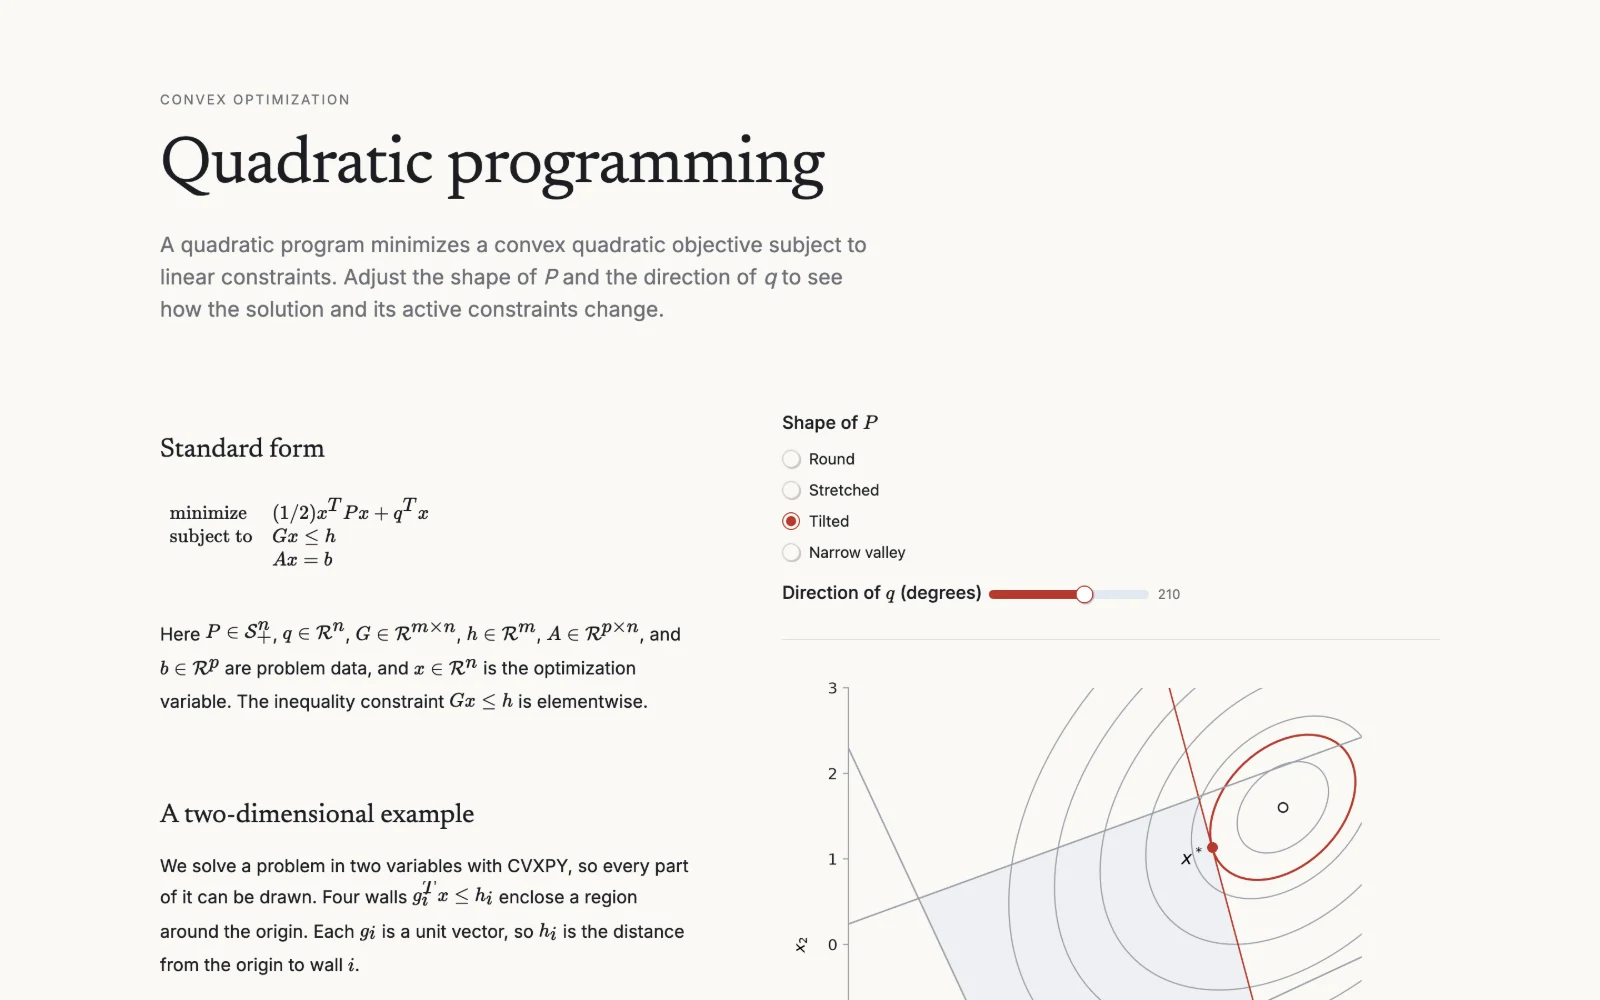
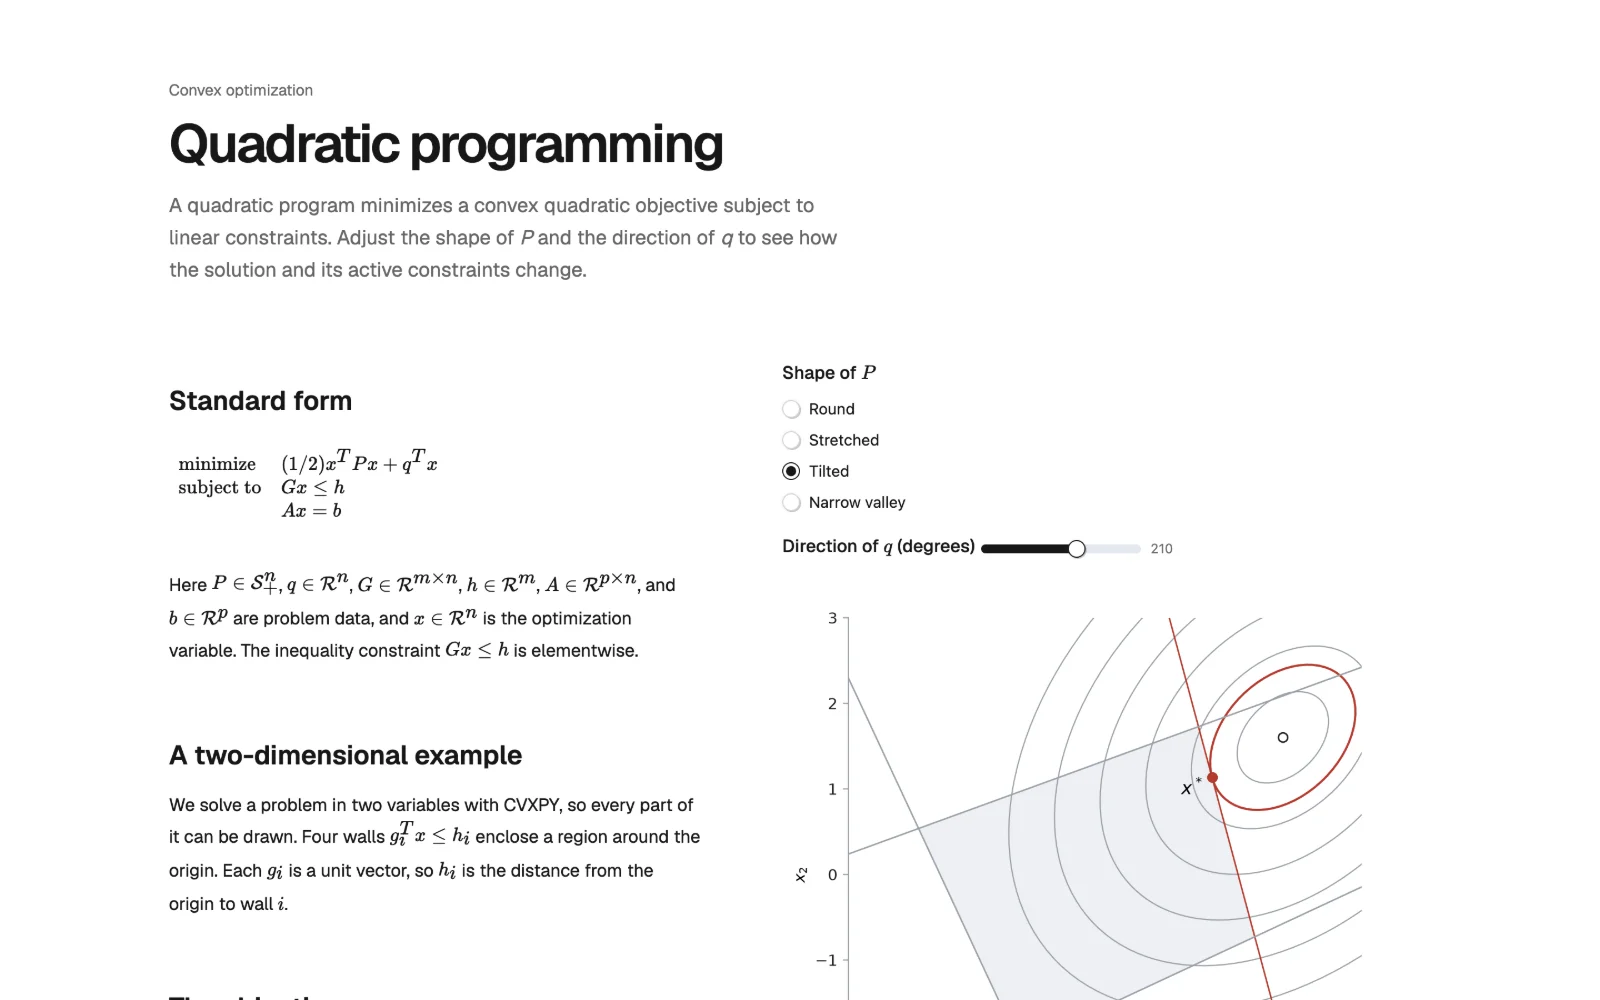
feat: give the quadratic explainer a monochrome identity of its own
The Explainer shared the Lecture and Lab's warm paper, serif headings, and red
accent, so the views read as one page. It now uses a white canvas, Geist
throughout, spacing in place of section rules, and black controls. The
notebook's red remains the only color, marking the solution and active walls.

diff --git a/examples/__marimo__/studio/quadratic_program/explainer/index.html b/examples/__marimo__/studio/quadratic_program/explainer/index.html
@@ -4,17 +4,26 @@
     <meta charset="utf-8">
     <meta name="viewport" content="width=device-width, initial-scale=1">
     <title>Quadratic Programming · A Visual Explainer</title>
-    <link rel="stylesheet" href="https://cdn.jsdelivr.net/npm/@fontsource-variable/inter@5/index.css">
-    <link rel="stylesheet" href="https://cdn.jsdelivr.net/npm/@fontsource-variable/newsreader@5/index.css">
+    <link rel="stylesheet" href="https://cdn.jsdelivr.net/npm/@fontsource-variable/geist@5/index.css">
     <style>
+      /* Projected Markdown sets headings at the text weight. A family whose
+         only face is Geist SemiBold gives them heading weight through the
+         heading font token. */
+      @font-face {
+        font-display: swap;
+        font-family: "Geist Heading";
+        font-weight: 100 900;
+        src: url("https://cdn.jsdelivr.net/npm/@fontsource/geist@5/files/geist-latin-600-normal.woff2") format("woff2");
+      }
+
       :root {
-        --paper: #faf9f6;
-        --ink: #1b1d22;
-        --muted: #6b6f76;
-        --rule: #e5e2dc;
-        --accent: #b33a2e;
-        --text-font: "Inter Variable", system-ui, sans-serif;
-        --heading-font: "Newsreader Variable", Georgia, serif;
+        --paper: #ffffff;
+        --ink: #171717;
+        --muted: #666666;
+        --rule: #ebebeb;
+        --data: #b33a2e;
+        --text-font: "Geist Variable", system-ui, sans-serif;
+        --heading-font: "Geist Heading", var(--text-font);
         color-scheme: light;
       }
 
@@ -29,7 +38,7 @@
         --marimo-cell-font: var(--text-font);
         --marimo-cell-heading-font: var(--heading-font);
         --marimo-cell-foreground: var(--ink);
-        --marimo-cell-accent: var(--accent);
+        --marimo-cell-accent: var(--ink);
         --marimo-cell-background: transparent;
         --marimo-cell-padding: 0;
         --marimo-cell-content-width: 100%;
@@ -38,62 +47,59 @@
       #app-shell {
         box-sizing: border-box;
         margin: 0 auto;
-        max-width: 76rem;
-        padding: 5rem 2rem 6rem;
+        max-width: 75rem;
+        padding: 4.5rem 2rem 6rem;
       }
 
       .masthead {
-        margin-bottom: 4.5rem;
+        margin-bottom: 4rem;
         max-width: 46rem;
       }
 
-      .kicker {
+      .context {
         color: var(--muted);
-        font-size: 0.75rem;
-        letter-spacing: 0.14em;
-        margin: 0 0 1.25rem;
-        text-transform: uppercase;
+        font-size: 0.875rem;
+        line-height: 1.4;
+        margin: 0 0 0.75rem;
       }
 
       h1 {
-        font: 400 clamp(2.5rem, 5vw, 3.75rem) / 1.04 var(--heading-font);
-        letter-spacing: -0.015em;
-        margin: 0 0 1.5rem;
+        font: 600 clamp(2.25rem, 4.5vw, 3rem) / 1.08 var(--text-font);
+        letter-spacing: -0.045em;
+        margin: 0 0 1rem;
         text-wrap: balance;
       }
 
       .lede {
         color: var(--muted);
-        font-size: 1.1875rem;
-        line-height: 1.55;
+        font-size: 1.125rem;
+        line-height: 1.6;
         margin: 0;
-        max-width: 40rem;
+        max-width: 38rem;
       }
 
       .explainer {
         align-items: start;
         display: grid;
-        gap: 5rem;
+        gap: 4.5rem;
         grid-template-columns: minmax(0, 30rem) minmax(0, 1fr);
       }
 
       .reading {
         display: grid;
-        gap: 3rem;
+        gap: 2.5rem;
       }
 
       .workbench {
         display: grid;
-        gap: 1.75rem;
+        gap: 2rem;
         position: sticky;
         top: 2rem;
       }
 
       .controls {
-        border-bottom: 1px solid var(--rule);
         display: grid;
-        gap: 0.75rem;
-        padding-bottom: 1.5rem;
+        gap: 1rem;
       }
 
       .figure {
@@ -109,25 +115,24 @@
       }
 
       .duals caption {
-        color: var(--muted);
-        font-size: 0.75rem;
-        letter-spacing: 0.14em;
-        padding-bottom: 0.75rem;
+        font-size: 0.875rem;
+        font-weight: 500;
+        padding-bottom: 0.5rem;
         text-align: left;
-        text-transform: uppercase;
       }
 
       .duals th,
       .duals td {
-        border-top: 1px solid var(--rule);
-        padding: 0.5rem 0;
+        border-bottom: 1px solid var(--rule);
+        padding: 0.625rem 0;
         text-align: left;
+        vertical-align: baseline;
       }
 
       .duals th {
         color: var(--muted);
-        font-size: 0.8125rem;
-        font-weight: 500;
+        font-size: 0.875rem;
+        font-weight: 400;
       }
 
       .duals :is(th, td):nth-child(2) {
@@ -139,24 +144,36 @@
         padding-left: 2rem;
       }
 
+      .duals td {
+        color: var(--muted);
+      }
+
       .duals tr[data-active="true"] td {
-        color: var(--accent);
+        color: var(--ink);
+        font-weight: 500;
+      }
+
+      /* The figure marks active walls in the notebook's data color, so the
+         status names them in the same color. */
+      .duals tr[data-active="true"] td:last-child {
+        color: var(--data);
       }
 
       .sensitivity {
-        border-top: 1px solid var(--rule);
         display: grid;
         gap: 2rem;
-        margin-top: 7rem;
+        margin-top: 8rem;
         max-width: 50rem;
-        padding-top: 3.5rem;
       }
 
       .closing {
-        border-top: 1px solid var(--rule);
-        margin-top: 5rem;
+        margin-top: 6rem;
         max-width: 50rem;
-        padding-top: 3.5rem;
+      }
+
+      .sensitivity > marimo-cell[name="sensitivity_context"],
+      .closing > marimo-cell {
+        max-width: 38rem;
       }
 
       @media (max-width: 960px) {
@@ -173,13 +190,21 @@
           order: -1;
           position: static;
         }
+
+        .sensitivity {
+          margin-top: 5rem;
+        }
+
+        .closing {
+          margin-top: 4rem;
+        }
       }
     </style>
   </head>
   <body>
     <main id="app-shell">
       <header class="masthead">
-        <p class="kicker">Convex optimization</p>
+        <p class="context">Convex optimization</p>
         <h1>Quadratic programming</h1>
         <p class="lede">
           A quadratic program minimizes a convex quadratic objective subject to

diff --git a/examples/__marimo__/studio/quadratic_program/explainer/DESIGN.md b/examples/__marimo__/studio/quadratic_program/explainer/DESIGN.md
@@ -6,29 +6,32 @@ the figure and the solution stay in view.
 
 ## Direction
 
-Quiet and exact, like a well-set textbook page. White space and alignment carry
-the structure. One accent marks the solution, and nothing else competes with
-it.
+Monochrome and precise, like a well-made developer tool. Typography, alignment,
+and spacing carry the structure on a white canvas, with hairlines only inside
+tables. Controls stay black. The only color is the notebook's data red, which
+marks the solution and its active walls in the figures and the dual-value
+table. This sets the Explainer apart from the warm textbook pages of the
+Lecture and Lab.
 
 ## Tokens
 
-| Token  | Value     | Use                                            |
-| ------ | --------- | ---------------------------------------------- |
-| paper  | `#faf9f6` | Page background                                |
-| ink    | `#1b1d22` | Text, primary lines, the bottom of the bowl    |
-| muted  | `#6b6f76` | Secondary text and captions                    |
-| rule   | `#e5e2dc` | Hairlines and table borders                    |
-| accent | `#b33a2e` | The solution, active walls, and contact curves |
-| region | `#eef0f3` | The feasible region in the notebook's figures  |
-| level  | `#9aa0a8` | Level curves and inactive walls in the figures |
+| Token | Value     | Use                                                   |
+| ----- | --------- | ----------------------------------------------------- |
+| paper | `#ffffff` | Page background                                       |
+| ink   | `#171717` | Text, controls, and active dual rows                  |
+| muted | `#666666` | Secondary text, labels, and inactive dual rows        |
+| rule  | `#ebebeb` | Table hairlines                                       |
+| data  | `#b33a2e` | The notebook's solution color, reused for active rows |
 
-The notebook's figures draw with ink, accent, region, and level. Keep those
-colors aligned with the notebook.
+The notebook's figures draw on a transparent background with their own ink,
+accent, region, and level colors. Keep `data` aligned with the notebook's
+accent.
 
 ## Type
 
-- Headings: Newsreader, regular weight, tight leading.
-- Text and controls: Inter.
+- Everything in Geist: semibold headings with tight tracking, regular text,
+  sentence-case labels.
+- Math: the notebook's rendered notation.
 - Values: tabular figures so digits align while controls change.
 
 ## Layout
